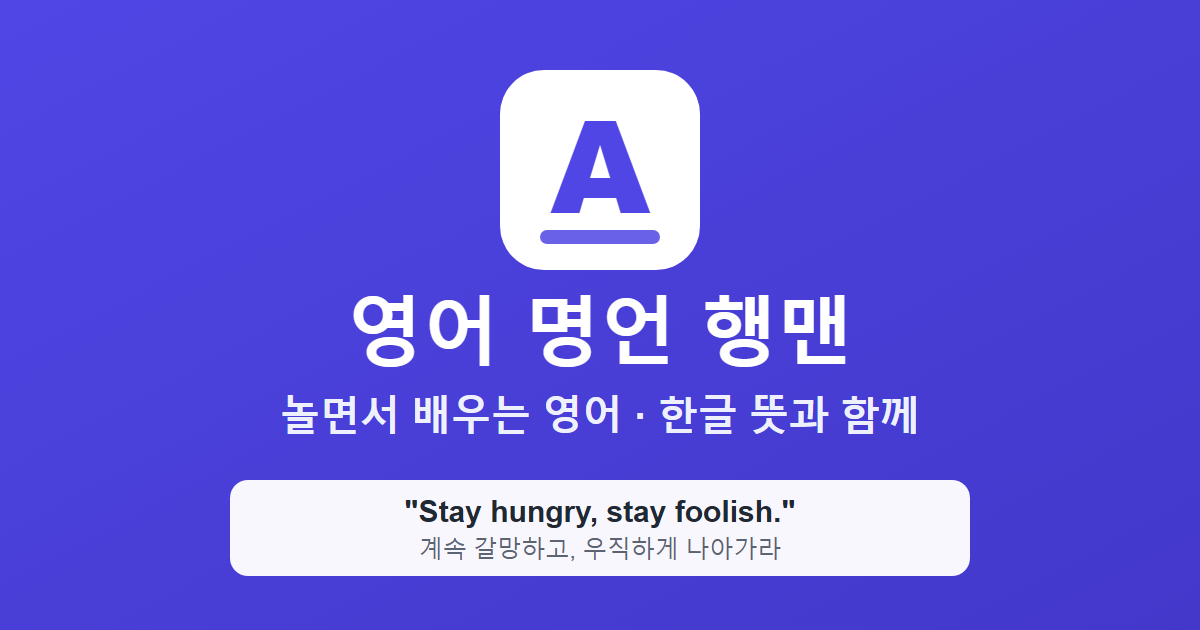
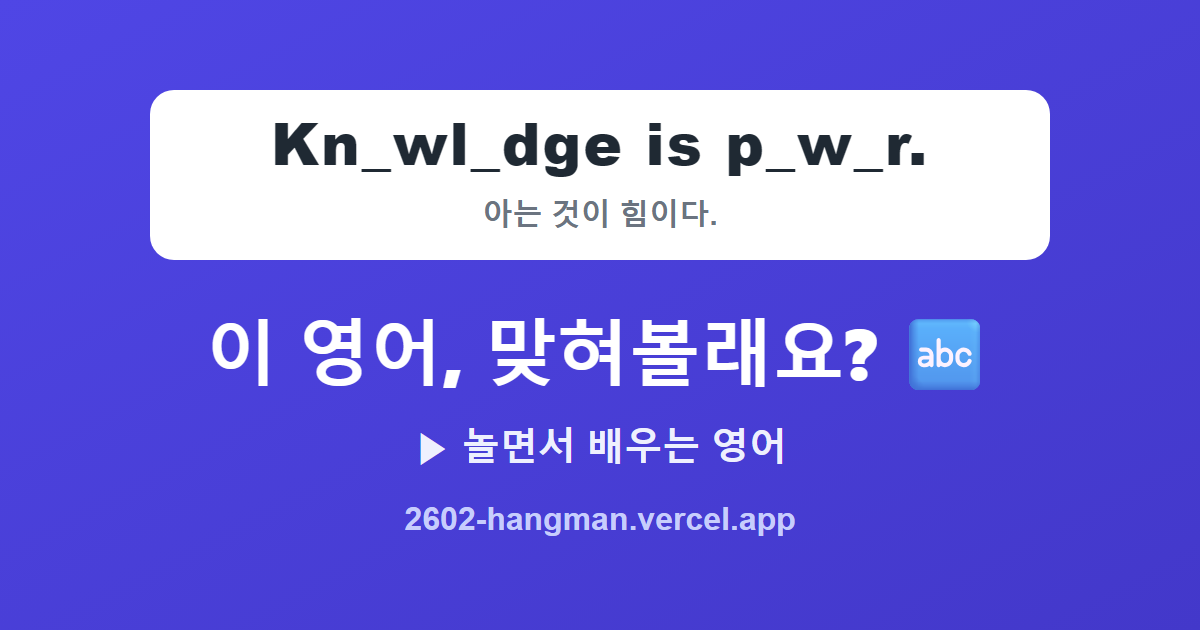
공유 간소화: 이미지 첨부 제거, 텍스트+링크만 + og.png 빈칸 티저
카톡 공유 시 이미지+텍스트가 메시지 4개로 쪼개져 과함(사용자 피드백).

- share.js: 이미지 첨부 경로 제거, 텍스트+링크만. text 에서 URL 을 빼고
  navigator.share 의 url 파라미터로만 — 합쳐질 때 링크 2번 찍힘 방지.
  복사 폴백에는 URL 직접 첨부.
- ShareCard/html-to-image 제거(캡처 불필요 — 의존성/번들 축소).
- og.png 재디자인: 빈칸 뚫린 문장("Kn_wl_dge is p_w_r.") + 한글 힌트 +
  "이 영어, 맞혀볼래요? 🔤" — 링크 미리보기가 티저(어그로) 역할.

검증: npm run verify 전체 통과(0 실패).

Claude-Session: https://claude.ai/code/session_01TkhoFUY573P3sjQbPFG4uw

diff --git a/src/lib/share.js b/src/lib/share.js
@@ -2,59 +2,41 @@
    share.js — 결과 공유. 바이럴의 핵심은 "게임 링크가 페이로드에 따라가는 것".
    Web Share API 우선(모바일 네이티브 공유창) → 미지원이면 링크 복사 폴백.
    모든 경로 fail-soft: 공유가 실패해도 게임 흐름을 절대 깨지 않는다(프로젝트 규약).
+
+   이미지 첨부는 하지 않는다(사용자 결정): 카톡에서 이미지+텍스트가 메시지
+   여러 개로 쪼개져 과함. 텍스트+링크 1개면 충분 — 링크 미리보기(og.png)가
+   "빈칸 뚫린 문장" 티저로 어그로를 담당한다.
    ========================================================================= */
 
 // 홈 URL. 딥링크 라우팅이 없으니 홈으로 보낸다(라우터 추가는 범위 밖).
 const HOME_URL =
   typeof window !== 'undefined' ? window.location.origin + '/' : 'https://2602-hangman.vercel.app/'
 
-/** 공유 문구(해요체 — 앱 보이스와 일치). 친구가 명언을 보고 링크를 타게 만든다. */
+/** 공유 문구(해요체 — 앱 보이스와 일치). URL 은 여기 넣지 않는다 —
+ *  navigator.share 의 url 파라미터와 합쳐지면 링크가 2번 찍히므로 분리. */
 export function buildShareText({ text, ko } = {}) {
   const lines = ['이 영어, 맞혀볼래요? 🔤', '']
   if (text) lines.push(`"${text}"`)
   if (ko) lines.push(ko)
-  lines.push('', '▶ 놀면서 배우는 영어', HOME_URL)
+  lines.push('', '▶ 놀면서 배우는 영어')
   return lines.join('\n')
-}
-
-/** File 첨부 공유가 가능한 환경인가(모바일 크롬/사파리 등). */
-function canShareFiles(file) {
-  try {
-    return (
-      typeof navigator !== 'undefined' &&
-      typeof navigator.canShare === 'function' &&
-      file &&
-      navigator.canShare({ files: [file] })
-    )
-  } catch {
-    return false
-  }
 }
 
 /**
  * 결과를 공유한다. 우선순위:
- *  1) 이미지 첨부 Web Share (모바일, 이미지 지원 시) — 스토리에 카드로 뿌리기 최적
- *  2) 텍스트+링크 Web Share (모바일, 이미지 미지원 시)
- *  3) 링크 복사 (데스크톱/미지원) → 'copied'
+ *  1) 텍스트+링크 Web Share (모바일 네이티브 공유창)
+ *  2) 문구+링크 복사 (데스크톱/미지원) → 'copied'
  * 반환: 'shared' | 'copied' | 'dismissed' | 'failed' (호출측이 토스트 문구 결정)
  *
- * @param {{ text?:string, ko?:string, imageBlob?:Blob }} payload
+ * @param {{ text?:string, ko?:string }} payload
  */
-export async function shareResult({ text, ko, imageBlob } = {}) {
+export async function shareResult({ text, ko } = {}) {
   const message = buildShareText({ text, ko })
 
-  // 1·2) Web Share API
+  // 1) Web Share API — text 와 url 을 분리해 넘기면 대상 앱이 알아서 합친다.
   if (typeof navigator !== 'undefined' && typeof navigator.share === 'function') {
     try {
-      const file =
-        imageBlob != null
-          ? new File([imageBlob], 'quote-hangman.png', { type: 'image/png' })
-          : null
-      if (file && canShareFiles(file)) {
-        await navigator.share({ text: message, url: HOME_URL, files: [file] })
-      } else {
-        await navigator.share({ text: message, url: HOME_URL })
-      }
+      await navigator.share({ text: message, url: HOME_URL })
       return 'shared'
     } catch (err) {
       // 사용자가 공유창을 닫음(취소)은 실패가 아니다.
@@ -63,10 +45,10 @@ export async function shareResult({ text, ko, imageBlob } = {}) {
     }
   }
 
-  // 3) 링크 복사 폴백
+  // 2) 링크 복사 폴백 (복사본에는 URL 을 직접 붙인다)
   try {
     if (typeof navigator !== 'undefined' && navigator.clipboard?.writeText) {
-      await navigator.clipboard.writeText(message)
+      await navigator.clipboard.writeText(`${message}\n${HOME_URL}`)
       return 'copied'
     }
   } catch {

diff --git a/src/components/ResultScreen.jsx b/src/components/ResultScreen.jsx
@@ -1,37 +1,22 @@
-import { useRef, useState } from 'react'
-import { toBlob } from 'html-to-image'
-import { getCategory } from '../data/categories.js'
+import { useState } from 'react'
 import { shareResult } from '../lib/share.js'
-import ShareCard from './ShareCard.jsx'
 import styles from './ResultScreen.module.css'
 
 export default function ResultScreen({ game, lastEarned = 0, total = 0 }) {
   const { state, actions } = game
   const won = state.gameState === 'WIN'
   const quote = state.quote
-  const category = getCategory(state.category)
 
-  const cardRef = useRef(null)
   const [busy, setBusy] = useState(false)
   const [toast, setToast] = useState('') // 데스크톱 복사 등 사용자 피드백
 
+  // 텍스트+링크만 공유(이미지 첨부 없음 — 카톡에서 메시지가 쪼개져 과함).
+  // 링크 미리보기(og.png)가 티저 역할. 전 경로 fail-soft.
   async function onShare() {
     if (busy) return
     setBusy(true)
     setToast('')
-    // 이미지 카드 캡처 시도(실패해도 텍스트+링크로 공유 — fail-soft).
-    let imageBlob = null
-    try {
-      const node = cardRef.current
-      if (node) {
-        // ⚠ 한글 tofu 방지: 폰트 로드 완료 후 캡처.
-        if (document.fonts?.ready) await document.fonts.ready
-        imageBlob = await toBlob(node, { pixelRatio: 2, cacheBust: true })
-      }
-    } catch {
-      imageBlob = null // 캡처 실패 → 텍스트 공유로 강등
-    }
-    const result = await shareResult({ text: quote.text, ko: quote.ko, imageBlob })
+    const result = await shareResult({ text: quote.text, ko: quote.ko })
     if (result === 'copied') setToast('링크를 복사했어요 — 붙여넣어 공유하세요')
     else if (result === 'failed') setToast('공유를 열지 못했어요. 잠시 후 다시 시도해 주세요')
     setBusy(false)
@@ -65,7 +50,7 @@ export default function ResultScreen({ game, lastEarned = 0, total = 0 }) {
               className={`${styles.btn} ${styles.share}`}
               onClick={onShare}
               disabled={busy}
-              aria-label="이 명언과 점수를 친구에게 공유하기"
+              aria-label="이 명언을 친구에게 공유하기"
             >
               {busy ? '공유 준비 중…' : '📤 공유하기'}
             </button>
@@ -92,22 +77,6 @@ export default function ResultScreen({ game, lastEarned = 0, total = 0 }) {
           </button>
         </div>
       </div>
-
-      {/* 공유용 카드 — 화면 밖에 렌더(캡처 대상). WIN 일 때만 필요. */}
-      {won && (
-        <div className={styles.offscreen} aria-hidden="true">
-          <ShareCard
-            ref={cardRef}
-            text={quote.text}
-            ko={quote.ko}
-            author={quote.author}
-            categoryLabel={category?.label}
-            categoryEmoji={category?.emoji}
-            earned={lastEarned}
-            total={total}
-          />
-        </div>
-      )}
     </div>
   )
 }

diff --git a/src/components/ResultScreen.module.css b/src/components/ResultScreen.module.css
@@ -154,14 +154,6 @@
   color: var(--text-dim);
 }
 
-/* 공유 카드 캡처 대상 — 화면 밖에 두되 렌더는 되게(display:none 이면 캡처 불가) */
-.offscreen {
-  position: fixed;
-  left: -9999px;
-  top: 0;
-  pointer-events: none;
-}
-
 @keyframes rise {
   0% { transform: translateY(16px) scale(0.97); opacity: 0; }
   100% { transform: translateY(0) scale(1); opacity: 1; }
